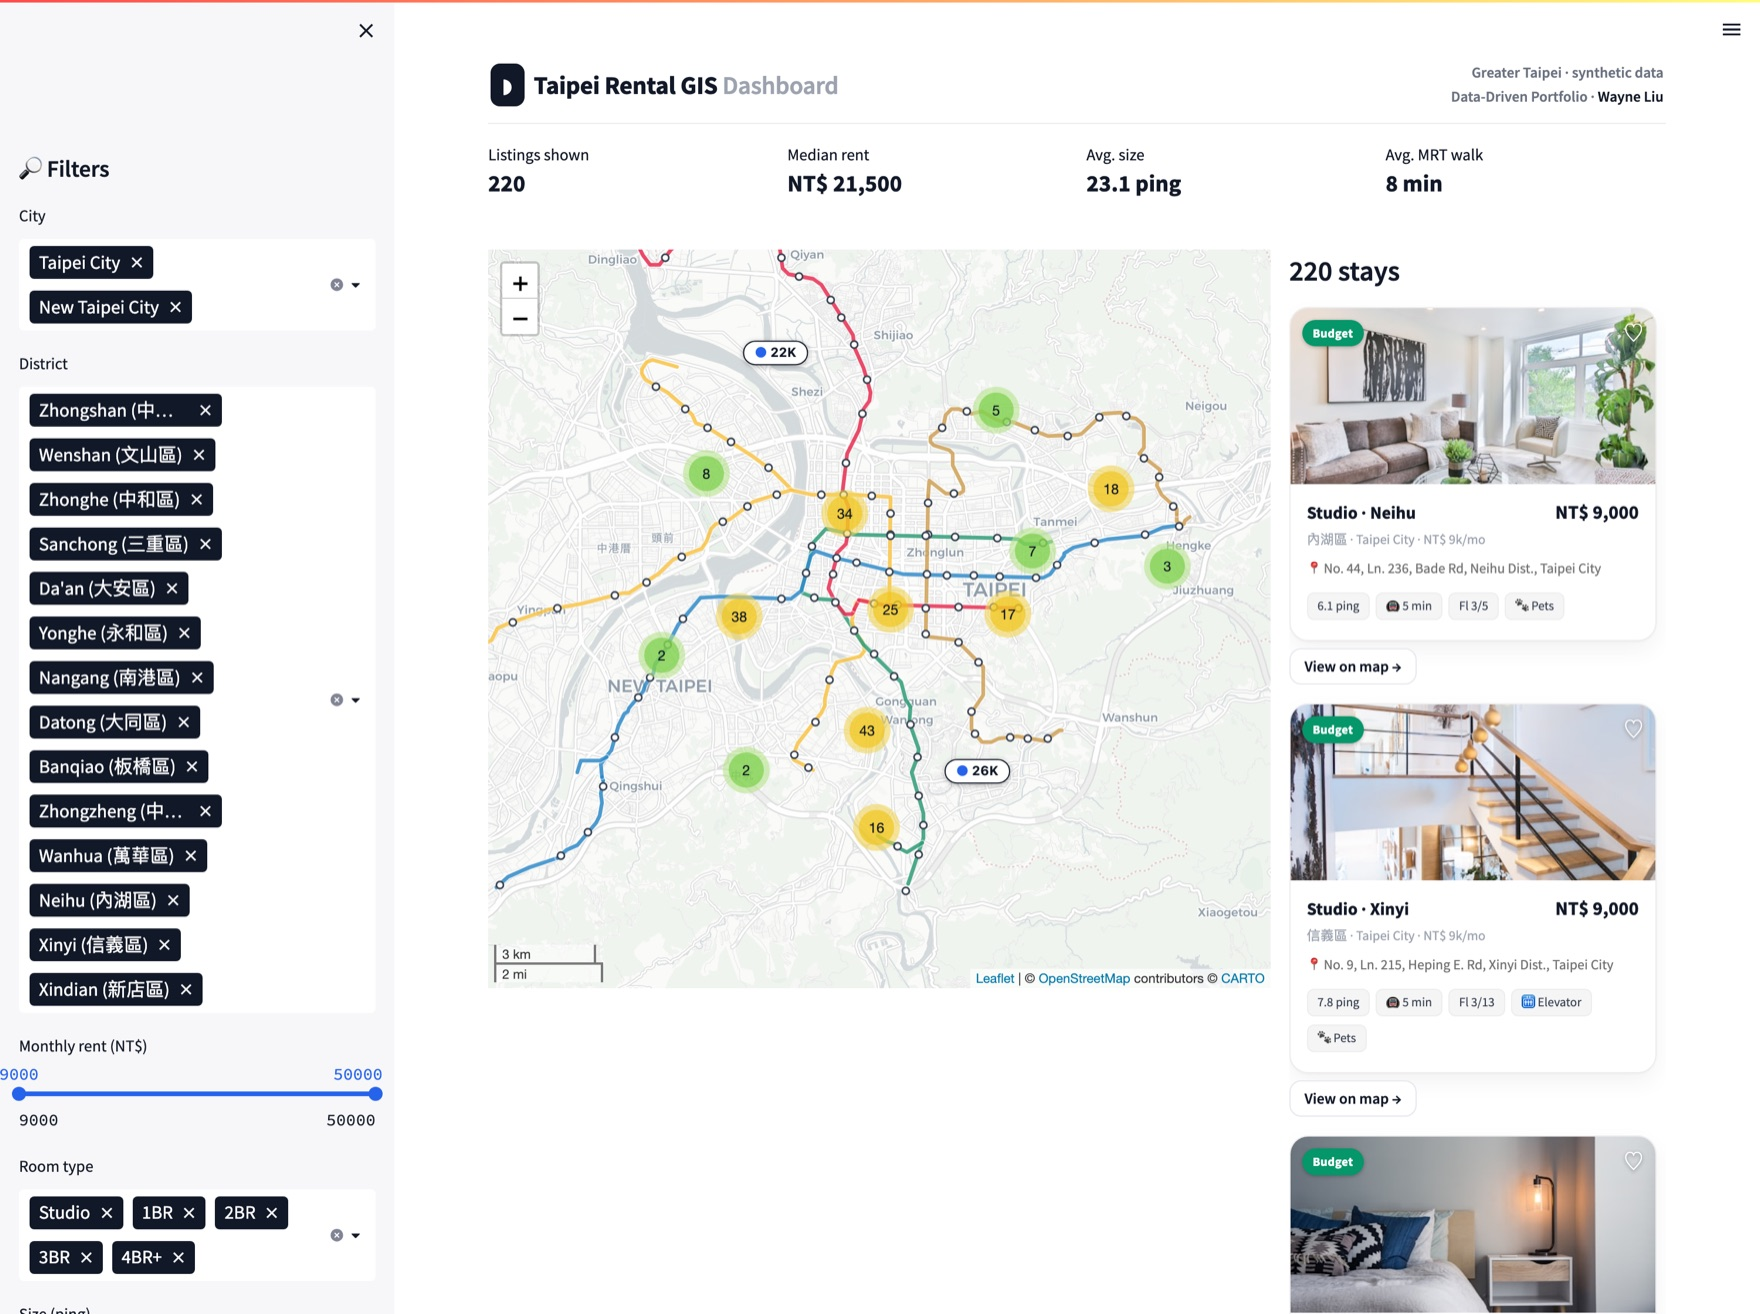
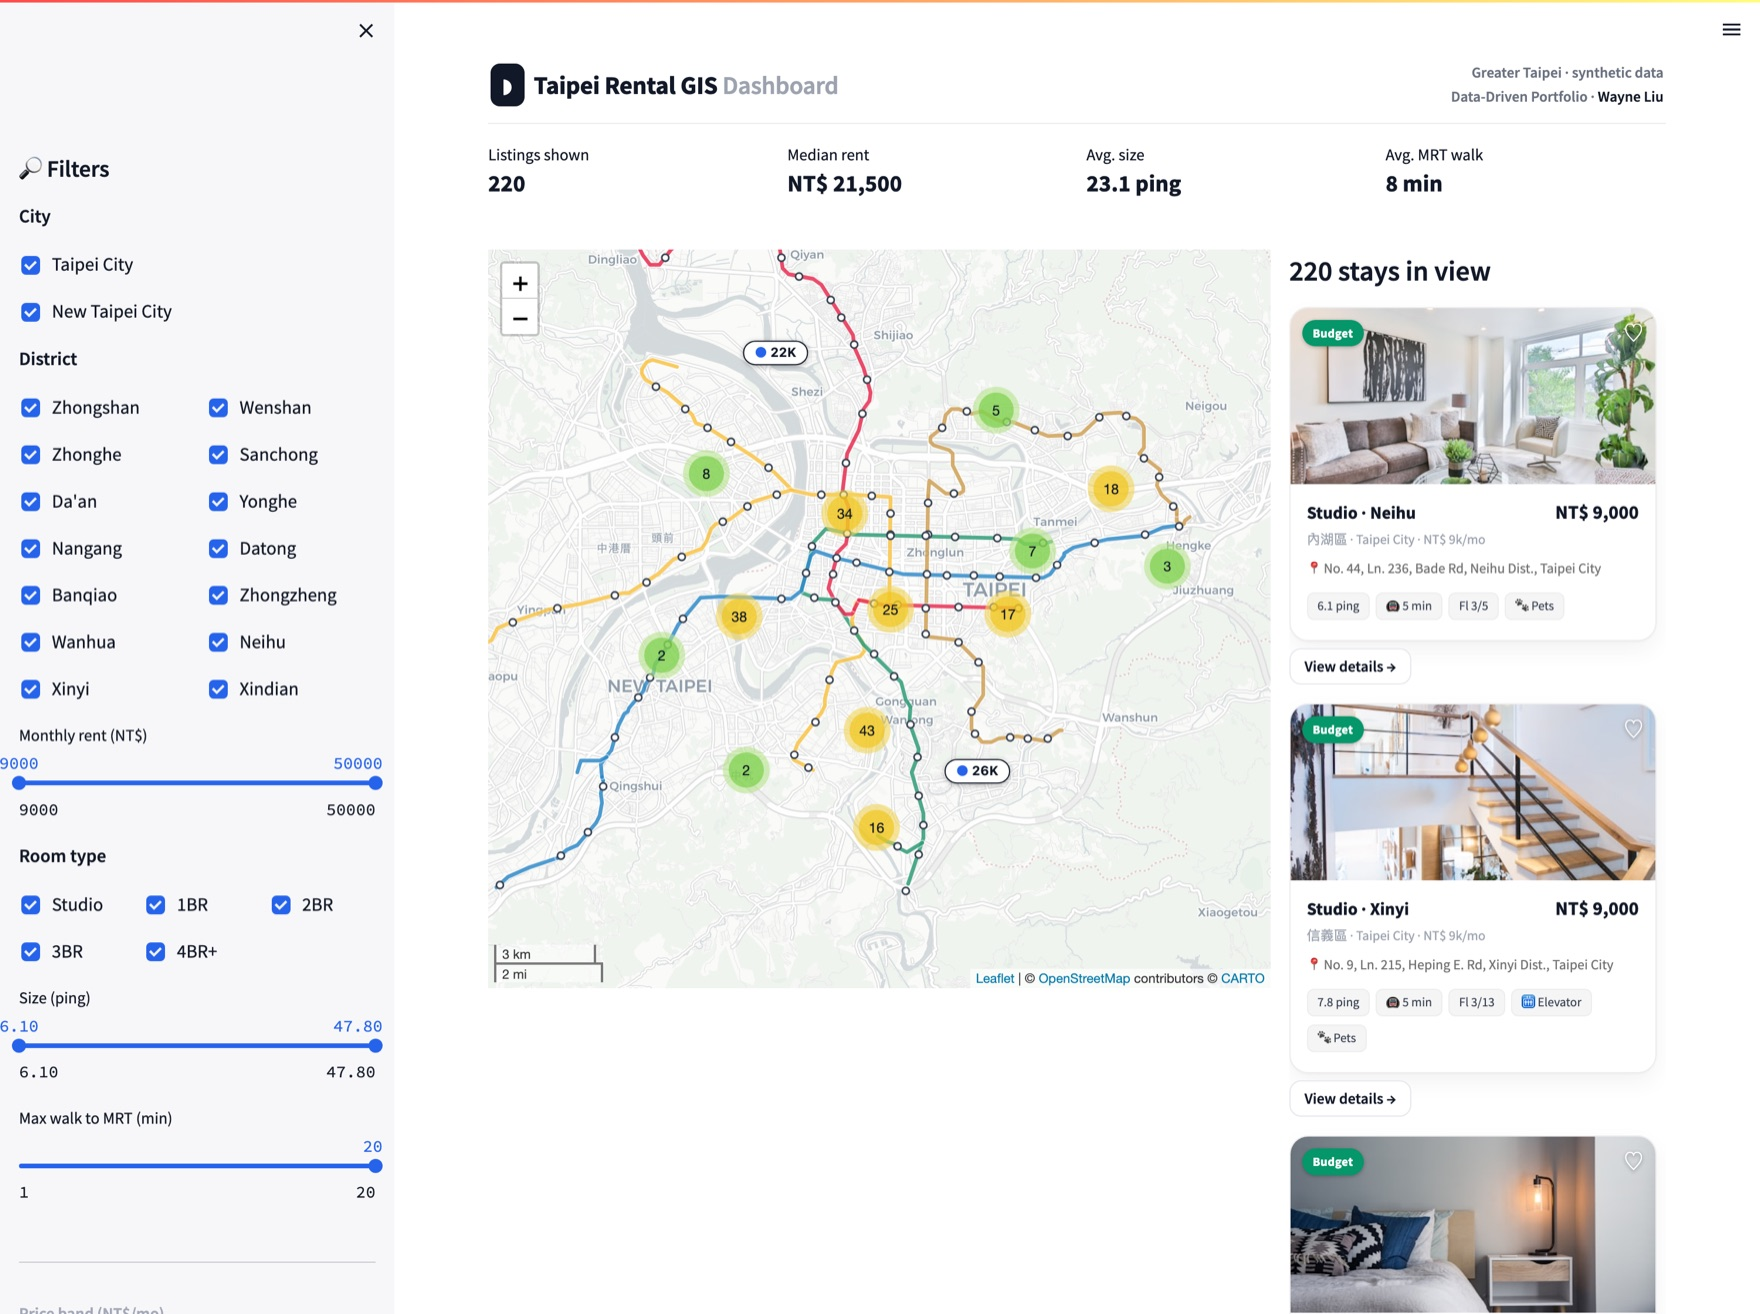
Add click-to-open modal, search-as-you-pan, checkbox filters
- Click a marker or card -> centered modal with the full listing
  (hero photo, rent/ping, MRT walk, amenities), closable ✕ top-right
- Right-hand cards now show the listings inside the current map
  viewport and update as you pan/zoom; map view is preserved
- Sidebar filters (city / district / room type) are now checkboxes
  instead of multiselect dropdowns

diff --git a/app.py b/app.py
@@ -113,6 +113,41 @@ st.markdown(
     div[data-testid="column"]:has(iframe) + div[data-testid="column"]::-webkit-scrollbar { width: 7px; }
     div[data-testid="column"]:has(iframe) + div[data-testid="column"]::-webkit-scrollbar-thumb {
         background: #D1D5DB; border-radius: 4px; }
+
+    /* ---- centered listing modal (z above the sidebar @ 999991) ---- */
+    .modal-backdrop { position:fixed; inset:0; background:rgba(17,24,39,.55);
+        z-index:999992; }
+    .listing-modal { position:fixed; top:50%; left:50%; transform:translate(-50%,-50%);
+        width:min(560px,92vw); max-height:88vh; overflow:auto; background:#fff;
+        border-radius:20px; box-shadow:0 24px 70px rgba(0,0,0,.42); z-index:999993; }
+    .modal-photo { width:100%; height:230px; object-fit:cover; display:block;
+        border-radius:20px 20px 0 0; }
+    .modal-body { padding:15px 20px 20px; }
+    .modal-head { display:flex; justify-content:space-between; align-items:flex-start; gap:10px; }
+    .modal-title { font-weight:700; font-size:1.12rem; color:#111827; line-height:1.25; }
+    .modal-zh { color:#9CA3AF; font-size:.74rem; font-weight:500; }
+    .modal-addr { color:#6B7280; font-size:.8rem; margin-top:3px; }
+    .modal-price { font-weight:800; font-size:1.2rem; color:#111827; white-space:nowrap; text-align:right; }
+    .modal-permo { font-size:.64rem; color:#9CA3AF; font-weight:500; }
+    .modal-stats { display:flex; gap:8px; margin:14px 0; }
+    .modal-stats > div { flex:1; background:#F7F7F8; border-radius:12px; padding:8px 4px; text-align:center; }
+    .modal-stats b { display:block; font-size:.92rem; color:#111827; }
+    .modal-stats span { font-size:.64rem; color:#9CA3AF; }
+    .modal-grid { display:grid; grid-template-columns:1fr 1fr; gap:9px 16px; font-size:.82rem; color:#374151; }
+    .modal-grid > div span { display:block; color:#9CA3AF; font-size:.66rem;
+        text-transform:uppercase; letter-spacing:.03em; }
+    .modal-desc { margin-top:14px; font-size:.82rem; color:#4B5563; }
+    .modal-contact { margin-top:8px; font-size:.72rem; color:#9CA3AF; }
+
+    /* close button = the st.button rendered right after the hidden anchor
+       (Streamlit 1.12 wraps each widget in .element-container, not a testid) */
+    .element-container:has(#modal-close-anchor) { display:none; }
+    .element-container:has(#modal-close-anchor) + .element-container {
+        position:fixed; top:16px; right:22px; left:auto; width:44px; z-index:999994; }
+    .element-container:has(#modal-close-anchor) + .element-container .stButton { width:44px; }
+    .element-container:has(#modal-close-anchor) + .element-container .stButton button {
+        border-radius:50%; width:44px; height:44px; font-size:1.15rem; font-weight:700;
+        background:#fff; border:1px solid #E5E7EB; box-shadow:0 6px 18px rgba(0,0,0,.28); padding:0; }
     </style>
     """,
     unsafe_allow_html=True,
@@ -121,8 +156,12 @@ st.markdown(
 # Inject the (once-embedded) photo background-image classes
 st.markdown(media.photo_css(), unsafe_allow_html=True)
 
-if "selected_id" not in st.session_state:
-    st.session_state.selected_id = None
+for _k, _v in {
+    "selected_id": None,          # listing shown in the centered modal
+    "last_click_xy": None,        # dedupe repeated last_object_clicked values
+    "view": {"center": list(config.MAP_CENTER), "zoom": config.DEFAULT_ZOOM},
+}.items():
+    st.session_state.setdefault(_k, _v)
 
 
 @cache_data
@@ -139,21 +178,34 @@ def _size_bounds():
 # Sidebar filters
 # ---------------------------------------------------------------------------
 st.sidebar.markdown("## 🔎 Filters")
-sel_cities = st.sidebar.multiselect("City", options=config.CITIES, default=config.CITIES)
 
-district_opts = [d for d in config.districts()
-                 if not sel_cities or config.DISTRICT_PROFILE[d]["city"] in sel_cities]
-sel_districts = st.sidebar.multiselect(
-    "District", options=district_opts, default=district_opts,
-    format_func=lambda d: f"{d} ({config.DISTRICT_PROFILE[d]['name_zh']})",
-)
+# --- City (checkboxes) ---
+st.sidebar.markdown("**City**")
+sel_cities = [c for c in config.CITIES
+              if st.sidebar.checkbox(c, value=True, key=f"city_{c}")]
+
+# --- District (checkboxes, 2 columns, grouped under the selected cities) ---
+st.sidebar.markdown("**District**")
+sel_districts = []
+_dcols = st.sidebar.columns(2)
+_i = 0
+for d in config.districts():
+    if config.DISTRICT_PROFILE[d]["city"] not in sel_cities:
+        continue
+    if _dcols[_i % 2].checkbox(d, value=True, key=f"dist_{d}"):
+        sel_districts.append(d)
+    _i += 1
 
 pmin, pmax = _price_bounds()
 price_range = st.sidebar.slider("Monthly rent (NT$)", min_value=pmin, max_value=pmax,
                                 value=(pmin, pmax), step=500, format="%d")
 
-sel_rooms = st.sidebar.multiselect("Room type", options=list(config.ROOM_TYPES.keys()),
-                                   default=list(config.ROOM_TYPES.keys()))
+st.sidebar.markdown("**Room type**")
+sel_rooms = []
+_rcols = st.sidebar.columns(3)
+for _j, _r in enumerate(config.ROOM_TYPES.keys()):
+    if _rcols[_j % 3].checkbox(_r, value=True, key=f"room_{_r}"):
+        sel_rooms.append(_r)
 
 smin, smax = _size_bounds()
 size_range = st.sidebar.slider("Size (ping)", min_value=float(smin), max_value=float(smax),
@@ -233,65 +285,103 @@ def price_pin(price: int, band_color: str, is_sel: bool) -> folium.DivIcon:
     return folium.DivIcon(html=html, icon_size=(0, 0), icon_anchor=(0, 0))
 
 
+def modal_card_html(s: dict) -> str:
+    photo = media.photo_data_uri(media.photo_number(int(s["id"]), s["room_type"]))
+    yn = lambda v: "Yes" if v else "No"
+    return (
+        '<div class="listing-modal">'
+        f'<img class="modal-photo" src="{photo}">'
+        '<div class="modal-body">'
+        '<div class="modal-head"><div>'
+        f'<div class="modal-title">{s["room_type"]} · {s["district"]} '
+        f'<span class="modal-zh">{s["district_zh"]} · {s["city"]}</span></div>'
+        f'<div class="modal-addr">📍 {s["address"]}</div></div>'
+        f'<div class="modal-price">NT$ {s["price"]:,}<div class="modal-permo">per month</div></div>'
+        '</div>'
+        '<div class="modal-stats">'
+        f'<div><b>{s["size_ping"]:g}</b><span>ping</span></div>'
+        f'<div><b>{s["unit_price"]:,}</b><span>NT$/ping</span></div>'
+        f'<div><b>{s["mrt_min"]} min</b><span>to MRT</span></div>'
+        f'<div><b>{s["bedrooms"]}/{s["bathrooms"]}</b><span>bed/bath</span></div>'
+        '</div>'
+        '<div class="modal-grid">'
+        f'<div><span>Building</span>{s["building_type"]}</div>'
+        f'<div><span>Floor</span>{s["floor"]}/{s["total_floors"]}</div>'
+        f'<div><span>Renovated</span>{s["renovation_age"]} yr ago</div>'
+        f'<div><span>Elevator / Parking</span>{yn(s["has_elevator"])} / {yn(s["has_parking"])}</div>'
+        f'<div><span>Pets</span>{"Allowed" if s["pet_allowed"] else "Not allowed"}</div>'
+        f'<div><span>Rent subsidy</span>{"Eligible" if s["subsidy_eligible"] else "No"}</div>'
+        '</div>'
+        f'<div class="modal-desc">{s["description"]}</div>'
+        f'<div class="modal-contact">Contact (fake): {s["landlord"]} · {s["phone"]} · '
+        f'listed {s["posted_date"]}</div>'
+        '</div></div>'
+    )
+
+
 col_map, col_list = st.columns([2.05, 1])
 
 with col_map:
-    if selected:
-        center, zoom = [selected["lat"], selected["lon"]], 16
-    else:
-        center, zoom = list(config.MAP_CENTER), config.DEFAULT_ZOOM
-
-    fmap = folium.Map(location=center, zoom_start=zoom, tiles=config.MAP_TILES,
-                      control_scale=True)
+    view = st.session_state.view
+    fmap = folium.Map(location=view["center"], zoom_start=view["zoom"],
+                      tiles=config.MAP_TILES, control_scale=True)
     mrt.add_mrt_layer(fmap)     # Taipei MRT lines (under the listing markers)
     mrt.add_mrt_stations(fmap)  # station dots on top of the lines
     cluster = MarkerCluster(disableClusteringAtZoom=15).add_to(fmap)
 
     for _, row in df.iterrows():
-        is_sel = selected is not None and row["id"] == selected["id"]
+        is_sel = st.session_state.selected_id == row["id"]
         bcolor = config.band_color(row["price_band"])
-        popup_html = (
-            f"<div style='font-family:sans-serif;font-size:12px;min-width:180px'>"
-            f"<b>{row['room_type']} · {row['district']}</b><br>"
-            f"<span style='color:#666'>{row['address']}</span><br>"
-            f"<b style='font-size:14px'>NT$ {row['price']:,}</b> / mo · "
-            f"{row['size_ping']:g} ping<br>"
-            f"🚇 {row['mrt_min']} min to MRT · Floor {row['floor']}/{row['total_floors']}</div>"
-        )
         folium.Marker(
             location=[row["lat"], row["lon"]],
             icon=price_pin(row["price"], bcolor, is_sel),
-            popup=folium.Popup(popup_html, max_width=250),
-            tooltip=f"{row['room_type']} · NT$ {row['price']:,}",
+            tooltip=f"{row['room_type']} · NT$ {row['price']:,} · {row['district']}",
         ).add_to(cluster)
 
-    map_state = st_folium(fmap, width=None, height=630, key="map")
+    map_state = st_folium(
+        fmap, width=None, height=630, key="map",
+        returned_objects=["bounds", "center", "zoom", "last_object_clicked"],
+    )
 
-    clicked = map_state.get("last_object_clicked") if map_state else None
-    if clicked and not df.empty:
-        clat, clon = clicked["lat"], clicked["lng"]
+# Keep the map where the user left it across reruns (so panning doesn't reset)
+if map_state:
+    c, z = map_state.get("center"), map_state.get("zoom")
+    if c and z:
+        st.session_state.view = {"center": [c["lat"], c["lng"]], "zoom": z}
+
+# Click a marker -> open the modal (dedupe the persisted last_object_clicked)
+lc = map_state.get("last_object_clicked") if map_state else None
+if lc and not df.empty:
+    xy = (round(lc["lat"], 6), round(lc["lng"], 6))
+    if xy != st.session_state.last_click_xy:
+        st.session_state.last_click_xy = xy
         df2 = df.copy()
-        df2["_d"] = (df2["lat"] - clat) ** 2 + (df2["lon"] - clon) ** 2
-        nearest = int(df2.sort_values("_d").iloc[0]["id"])
-        if nearest != st.session_state.selected_id:
-            st.session_state.selected_id = nearest
-            _rerun()
+        df2["_d"] = (df2["lat"] - lc["lat"]) ** 2 + (df2["lon"] - lc["lng"]) ** 2
+        st.session_state.selected_id = int(df2.sort_values("_d").iloc[0]["id"])
+        _rerun()
+
+# Listings within the current map viewport (right-hand cards react to panning)
+bounds = map_state.get("bounds") if map_state else None
+in_view = df
+if bounds and bounds.get("_southWest") and not df.empty:
+    sw, ne = bounds["_southWest"], bounds["_northEast"]
+    # ignore the degenerate bounds Leaflet reports before the map is sized
+    if (ne["lat"] - sw["lat"]) > 0.002 and (ne["lng"] - sw["lng"]) > 0.002:
+        in_view = df[(df["lat"] >= sw["lat"]) & (df["lat"] <= ne["lat"]) &
+                     (df["lon"] >= sw["lng"]) & (df["lon"] <= ne["lng"])]
 
 # ---------------------------------------------------------------------------
 # Property cards
 # ---------------------------------------------------------------------------
 with col_list:
-    st.markdown(f"#### {len(df)} stays")
-    if selected and st.button("↩ Reset selection"):
-        st.session_state.selected_id = None
-        _rerun()
+    st.markdown(f"#### {len(in_view)} stays in view")
 
     if df.empty:
         st.info("No listings match the current filters. Try widening them.")
+    elif in_view.empty:
+        st.info("No listings in the current map view — pan or zoom out.")
     else:
-        ordered = df.copy()
-        ordered["_sel"] = (ordered["id"] == st.session_state.selected_id).astype(int)
-        ordered = ordered.sort_values(["_sel", "price"], ascending=[False, True])
+        ordered = in_view.sort_values("price")
 
         for _, row in ordered.head(24).iterrows():
             is_sel = row["id"] == st.session_state.selected_id
@@ -325,48 +415,23 @@ with col_list:
                 """,
                 unsafe_allow_html=True,
             )
-            label = "✓ Selected — see details below" if is_sel else "View on map  →"
+            label = "✓ Showing details" if is_sel else "View details  →"
             if st.button(label, key=f"btn_{row['id']}", disabled=bool(is_sel)):
                 st.session_state.selected_id = int(row["id"])
                 _rerun()
 
-        if len(df) > 24:
-            st.caption(f"Showing first 24 of {len(df)} listings — narrow the filters to see more.")
+        if len(in_view) > 24:
+            st.caption(f"Showing first 24 of {len(in_view)} in view — zoom in or filter to narrow.")
 
 # ---------------------------------------------------------------------------
-# Detail panel (hero photo + full info)
+# Centered modal for the selected listing (marker click or card button)
 # ---------------------------------------------------------------------------
 if selected:
-    st.markdown("---")
-    st.subheader(f"🏠 {selected['title']}")
-
-    # KPI row (top-level columns)
-    m1, m2, m3, m4 = st.columns(4)
-    m1.metric("Monthly rent", f"NT$ {selected['price']:,}")
-    m2.metric("Size", f"{selected['size_ping']:g} ping")
-    m3.metric("Rent / ping", f"NT$ {selected['unit_price']:,}")
-    m4.metric("MRT walk", f"{selected['mrt_min']} min")
-
-    # Hero photo + details (top-level columns; no nesting inside)
-    pnum = media.photo_number(int(selected["id"]), selected["room_type"])
-    img_col, txt_col = st.columns([1, 1.6])
-    with img_col:
-        st.markdown(
-            f"<img src='{media.photo_data_uri(pnum)}' "
-            f"style='width:100%;height:210px;object-fit:cover;border-radius:16px'>",
-            unsafe_allow_html=True,
-        )
-    with txt_col:
-        st.markdown(
-            f"**District:** {selected['district']} ({selected['district_zh']}), {selected['city']}  \n"
-            f"**Address:** {selected['address']}  \n"
-            f"**Layout:** {selected['room_type']} · {selected['bedrooms']} bed / {selected['bathrooms']} bath  \n"
-            f"**Building:** {selected['building_type']} · Floor {selected['floor']}/{selected['total_floors']}  \n"
-            f"**Renovated:** {selected['renovation_age']} yr ago · "
-            f"**Elevator:** {'Yes' if selected['has_elevator'] else 'No'} · "
-            f"**Parking:** {'Yes' if selected['has_parking'] else 'No'}  \n"
-            f"**Pets:** {'Allowed' if selected['pet_allowed'] else 'Not allowed'} · "
-            f"**Rent-subsidy eligible:** {'Yes' if selected['subsidy_eligible'] else 'No'}"
-        )
-    st.caption(selected["description"])
-    st.caption(f"Contact (fake): {selected['landlord']} · {selected['phone']} · listed {selected['posted_date']}")
+    # Hidden anchor -> CSS turns the *next* element (this button) into the
+    # floating ✕ close button positioned over the modal.
+    st.markdown('<div id="modal-close-anchor"></div>', unsafe_allow_html=True)
+    if st.button("✕", key="modal_close", help="Close"):
+        st.session_state.selected_id = None
+        _rerun()
+    st.markdown('<div class="modal-backdrop"></div>' + modal_card_html(selected),
+                unsafe_allow_html=True)

diff --git a/README.md b/README.md
@@ -28,15 +28,17 @@ on a **SQLite** backend.
 - **Taipei MRT network overlay** — all lines in their official colours
   (Tamsui–Xinyi, Songshan–Xindian, Zhonghe–Xinlu, Bannan, Wenhu) plus **111
   station markers** (hover for the station name).
-- **Pinned map, scrollable listings** — the map stays in view while the property
-  cards scroll in their own pane (Airbnb desktop layout).
+- **Search-as-you-pan** — the property cards on the right update to the listings
+  inside the current map viewport as you pan and zoom (Airbnb-style), while the
+  map keeps its position.
+- **Click-to-open modal** — click a map marker *or* a card to open a centered
+  modal with the full listing (hero photo, rent-per-ping, MRT walk, amenities…).
 - **220 synthetic listings** across **14 districts** of Taipei City & New Taipei
   City, scattered around real district centroids.
-- **Six live filters** — city, district, monthly rent, room type, unit size, and
-  max walking distance to MRT.
-- **Photo property cards** with price band, amenities, and a *View on map* action.
-- **"Fly to" interaction** — click a card or a map pin to recenter, zoom and
-  highlight the listing, with a full detail panel (hero photo + specs) below.
+- **Checkbox filters** — city, district, monthly rent, room type, unit size, and
+  max walking distance to MRT, all directly toggleable in the sidebar.
+- **Pinned map, scrollable listings** — the map stays in view while the property
+  cards scroll in their own pane (Airbnb desktop layout).
 - **Live KPI header** — median rent, average size and average MRT walk update
   with every filter change.
 - **SQLite backend** with a parameterised query layer, rebuilt automatically on
